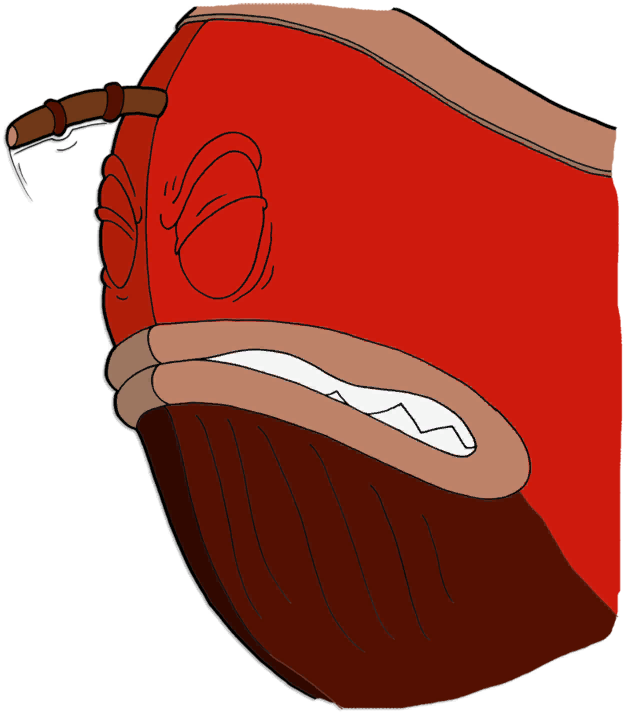
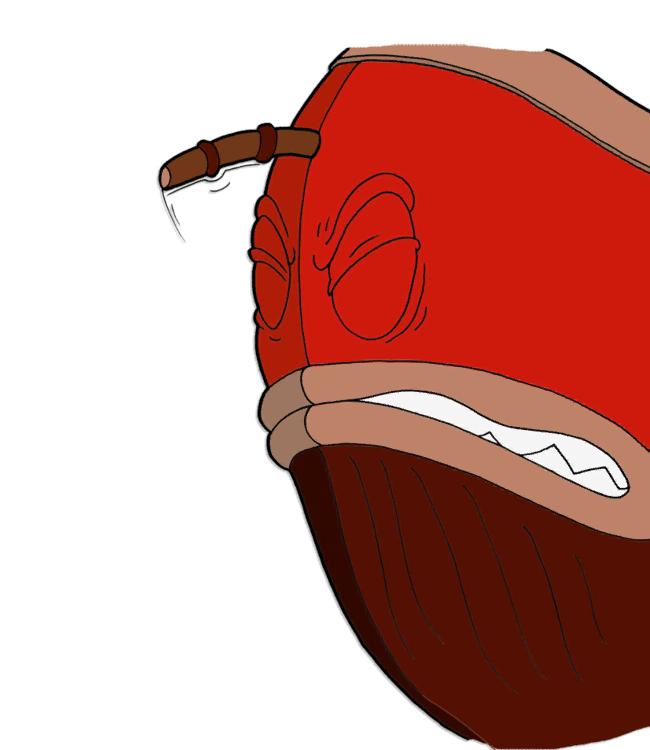
김경윤 : Transform 애니메이션 편집

diff --git a/DX_KKY/Contents/CaptainBrineybeardPhase1_Animation.cpp b/DX_KKY/Contents/CaptainBrineybeardPhase1_Animation.cpp
@@ -16,7 +16,7 @@ void ACaptainBrineybeardPhase1::CreateAnimation()
 	ShipRenderer->CreateAnimation(PirateBossAniName::Ship_Phase1_CannonAtt, "Ship_Phase1_ShootCannonBall", 0.065f, false);
 	ShipRenderer->CreateAnimation(PirateBossAniName::Ship_Phase1_Wince_Begin, "Ship_Phase1_Wince", 0.065f, false, 0, 1);
 	ShipRenderer->CreateAnimation(PirateBossAniName::Ship_Phase1_Wince_Idle, "Ship_Phase1_Wince", 0.065f, true, 1, 8);
-	ShipRenderer->CreateAnimation(PirateBossAniName::Ship_Transform_Begin, "Ship_Transform", 1.0f, false);
+	ShipRenderer->CreateAnimation(PirateBossAniName::Ship_Transform_Begin, "Ship_Transform", 0.065f, false);
 
 	// Pirate
 	PirateRenderer->CreateAnimation(PirateBossAniName::Pirate_Intro, "Pirate_Intro", 0.067f, true, 0, 4);
